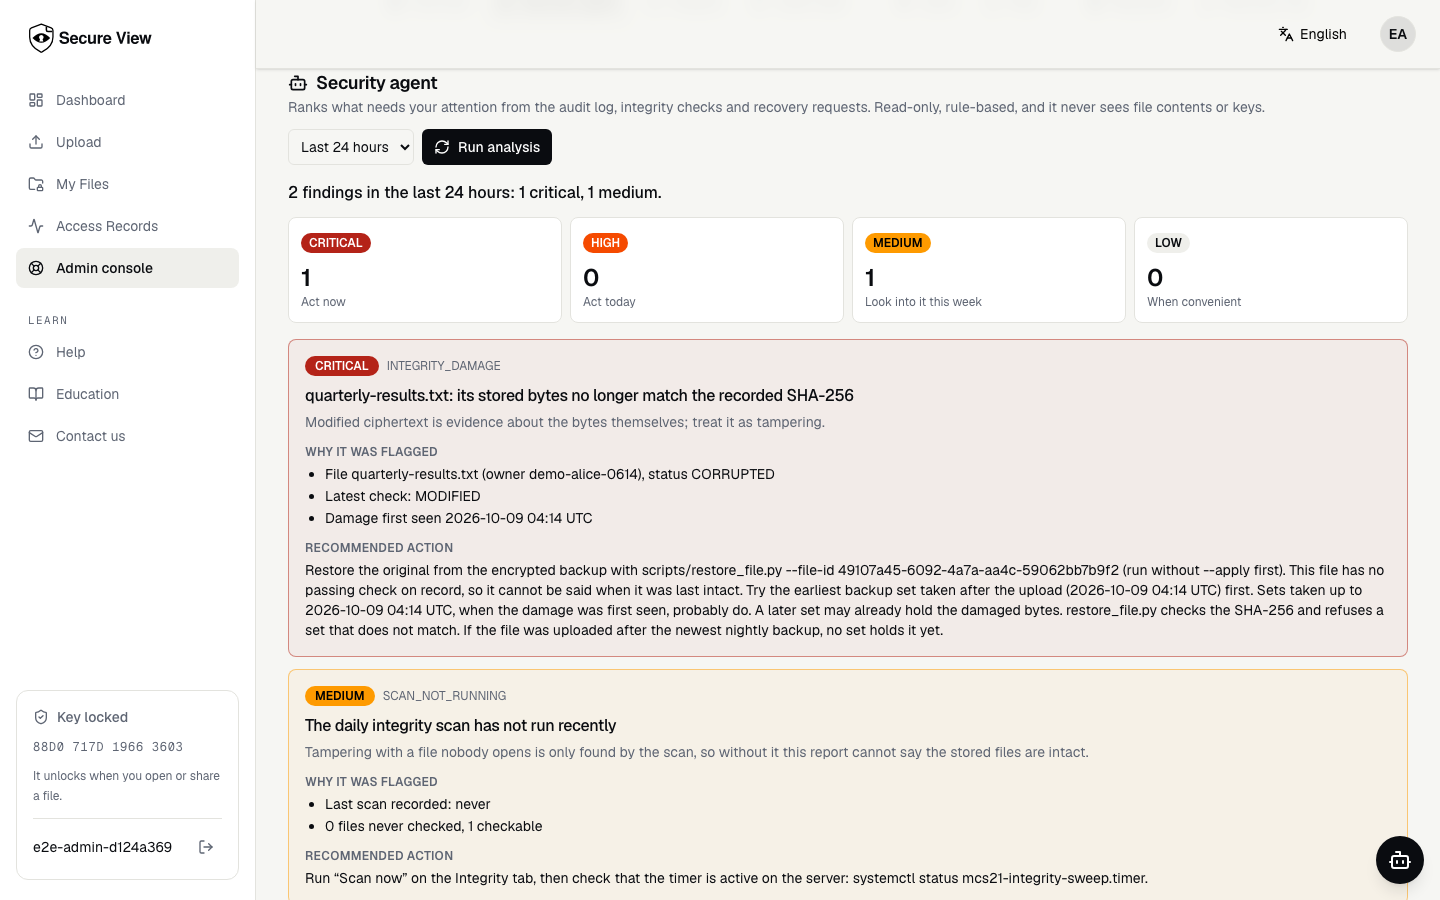
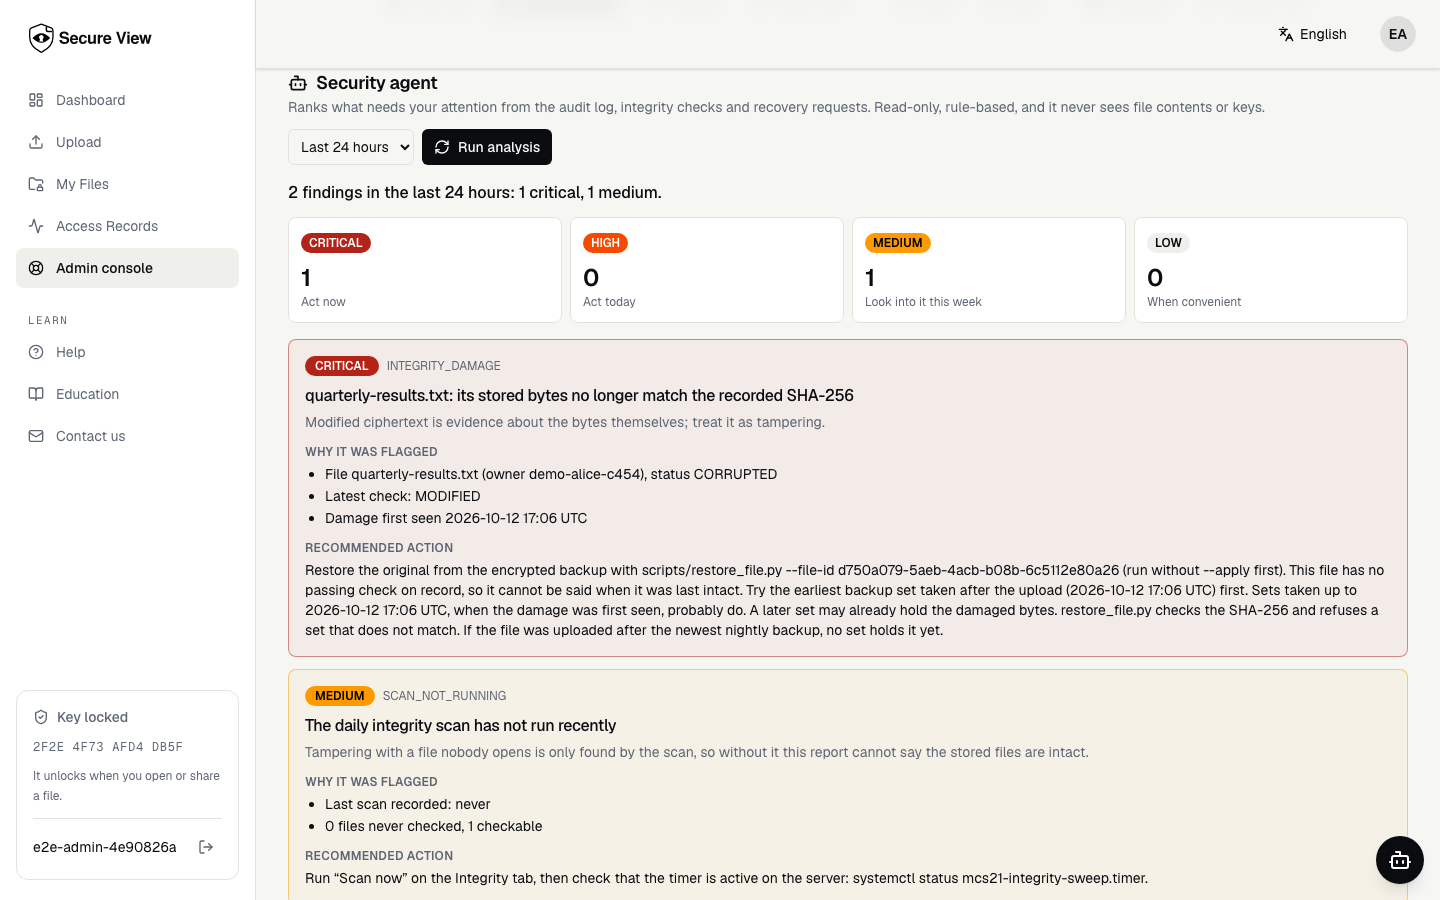
AC4a screenshots re-captured after the refused-download wording change

diff --git a/changelog/CHANGELOG.md b/changelog/CHANGELOG.md
@@ -18,6 +18,11 @@ existing [`work-packages/`](work-packages/) files are read-only historical archi
 
 ## [Unreleased] / [未发布]
 
+### AC4a screenshots re-captured after the refused-download wording change / 下载被拒文案改动后重拍 AC4a 截图
+
+- `docs/presentation/screenshots/ac4a-*.png` were taken before #227, so `ac4a-2-download-refused.png` still showed "The encrypted file could not be verified". The seven images were captured again with the same script (`E2E_BROWSER=capture bash backend/tests/e2e/run_live_stack.sh` on a disposable local stack at `b44ec15`); the refused-download one now shows the sentence that names the next step. The other six changed only in timestamps and the generated account name.
+- `docs/presentation/screenshots/ac4a-*.png` 是 #227 之前拍的，`ac4a-2-download-refused.png` 里还是 “The encrypted file could not be verified”。用同一个脚本（`E2E_BROWSER=capture bash backend/tests/e2e/run_live_stack.sh`，本地一次性环境，版本 `b44ec15`）把七张图重拍了一遍；下载被拒那张现在显示写明下一步的句子，另外六张只有时间戳和随机账号名不同。
+
 ### A refused download says what happens next / 下载被拒时说明接下来会怎样
 
 - When the server's integrity check refuses a download, My Files showed the server's sentence, "The encrypted file could not be verified", and nothing else. A recipient has no button for this (the fix is on the server side), so the page now says: the stored copy was changed and was not sent; the daily check alerts the administrator, who restores it from backup; or ask the owner to upload it again. The AC4a capture script looks for the new sentence; the AC4a screenshots in `docs/presentation/figures/` and the slide pack still show the old one.
